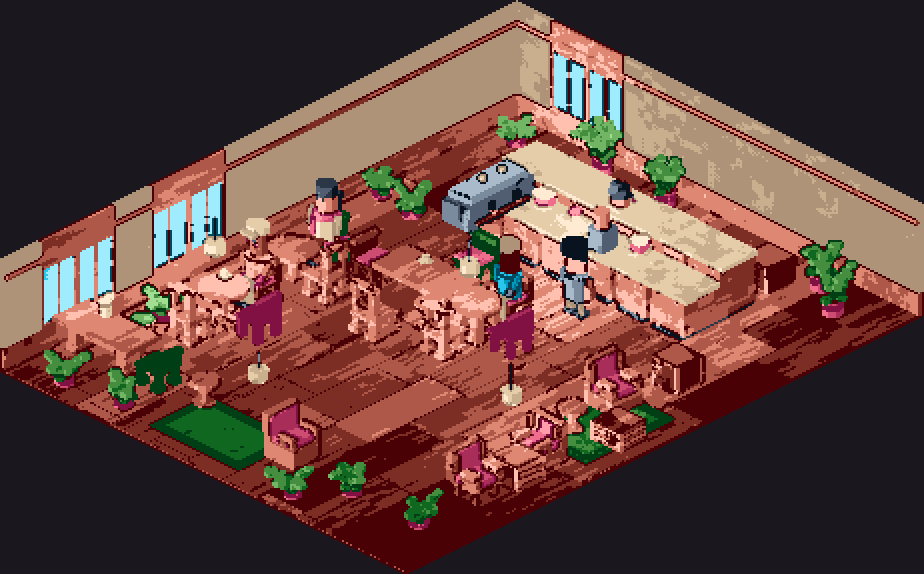
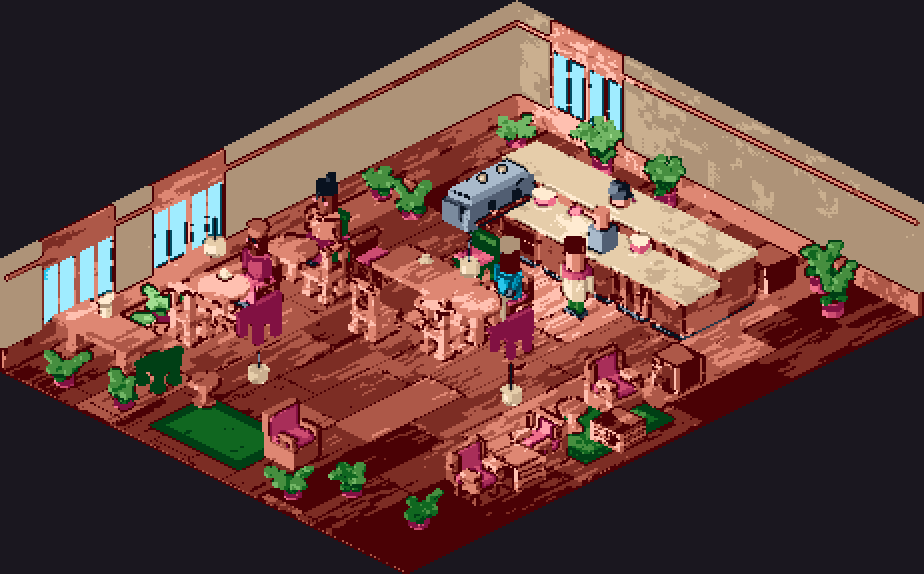
build_plan.py:proof/plan_room_snes_rpg.png: one more stale snes_rpg lock entry, missed by PR #155's sweep
style_approve.py only needs one current llm:focal_hierarchy verdict to
approve a style, so build_plan.py's second snes_rpg scene stayed stale
after PR #155 even though approval itself was already unblocked.
Regenerated the proof image, confirmed the only real change since the
last recording is the barista's garment colour (a downstream effect of
the same untracked bible.yaml edit, not a layout change), and recorded
a fresh honest verdict: still a PASS on the grey espresso machine as
the focal anchor, but the weakest-margin verdict of the three now on
record for this style. 40/40 tests pass, cozy_ghibli untouched.

Claude-Session: https://claude.ai/code/session_01Q5KEMm7eqHrVgYtYGEkSmS

diff --git a/ART_CRITIQUE.md b/ART_CRITIQUE.md
@@ -9467,3 +9467,65 @@ coverage both times.
 commit. Merging it separately against this branch will conflict on the same
 line this branch already rewrote; this branch's version has both fixes
 verified together.
+
+## `build_plan.py`'s second `snes_rpg` proof scene had the same stale-lock pattern PR #155 just fixed -- one more entry, not caught by that sweep
+
+Last hour's audit (`snes-rpg-lock-refresh-and-focal-verdict`, PR #155) found
+and re-verified 3 lock entries left stale by an untracked `bible.yaml` edit:
+`organic_rig.py:silhouette`, `palette_forge.py:palette+variants`, and
+`render_room.py`'s `llm:focal_hierarchy` verdict on `proof/shop_snes_rpg.
+png`. `python tools/lockfile.py --status --style snes_rpg` on `main` still
+showed a 4th entry at the same old hash after that PR: `build_plan.py:
+proof/plan_room_snes_rpg.png`, also an `llm:focal_hierarchy` verdict, on
+this style's *second* composed scene (`build_plan.py`'s floor-plan render,
+distinct from `render_room.py`'s shop composite). Missed by the prior sweep
+because that hour stopped once `style_approve.py --style snes_rpg` reported
+APPROVED -- `style_approve.py` only requires *one* current `llm:
+focal_hierarchy` verdict on any scope, so a second scene's stale entry
+doesn't block approval and doesn't show up unless `lockfile.py --status` is
+read past the approval gate's own pass/fail line.
+
+**Re-verified the same way, not rubber-stamped.** Regenerated `proof/
+plan_room_snes_rpg.png` fresh (`python tools/build_plan.py --style snes_rpg
+--out proof/plan_room_snes_rpg.png --no-confirm`) and diffed it against the
+previously-committed image (pulled via `git show HEAD:...` since the local
+file had already been overwritten). The two are visually identical except
+the barista figure's garment colour -- near-black/grey in the 2026-09-07
+recording, green/tan now, a downstream effect of the same bible edit that
+staled the other three entries, not a layout or geometry change. That's
+also the full explanation for the deterministic focal-contrast proxy moving
+from +0.078 (the 2026-09-07 number, itself already recorded as "weaker than
+the other scene") to +0.000 this time: the darker garment was apparently
+contributing some of the old contrast margin near the counter, and the
+new, warmer garment colour blends into the palette more. Mean-L (+0.120)
+and detail (+0.038) still favour the counter zone; only the contrast
+dimension went to exactly zero.
+
+**Looked at the image, not just the numbers.** With contrast at 0.000 this
+was worth a real look rather than trusting mean-L/detail alone. By eye, the
+grey espresso machine on the counter is still the one cool-toned object in
+an otherwise warm pink/cream/maroon room, and it still reads as the first
+thing the eye catches on a glance -- but this is now the weakest of the
+three `focal_hierarchy` verdicts on record for this style (the other two,
+`render_room.py`'s shop scene and this scene's own prior recording, both
+had a clearer margin). Recorded a fresh PASS via `llm_gate.py --record`
+with that "weakest of three, right at the edge" reasoning written into the
+verdict itself, not smoothed into an easy approval -- consistent with how
+last hour's `render_room.py` verdict was recorded as "a closer call than
+`cozy_ghibli`" rather than papering over the gap.
+
+**Zero regression, both styles.** `pytest -q`: 40/40, same as before this
+change. `lockfile.py --status --style snes_rpg` now shows only the 3
+entries PR #155 already covers as stale (unchanged by this branch, since
+PR #155 is a separate unmerged branch off `main` and this branch doesn't
+include its commits) -- `build_plan.py`'s entry is the only one this branch
+touches, and it now reads `approved  644eb8fe574e9786`, matching the live
+bible hash. `cozy_ghibli` untouched.
+
+**Left for him to decide, not resolved here:** this branch is based on
+`main`, not stacked on PR #155, since the two touch different lock entries
+and don't conflict -- but once PR #155 merges, `lockfile.py --status
+--style snes_rpg` will still show this same `build_plan.py` line as stale
+against whatever hash is live at that point, if `main`'s bible has moved
+again in the meantime. Worth a final live check right before merging either
+one, not assumed from this write-up.
